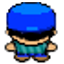
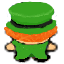
new main character

diff --git a/LudumDare/src/net/umc/ludumdare/common/Level.java b/LudumDare/src/net/umc/ludumdare/common/Level.java
@@ -7,6 +7,7 @@ import net.umc.ludumdare.tools.ResourceManager;
 
 import org.newdawn.slick.GameContainer;
 import org.newdawn.slick.Graphics;
+import org.newdawn.slick.Image;
 import org.newdawn.slick.state.StateBasedGame;
 import org.newdawn.slick.tiled.TiledMap;
 
@@ -39,7 +40,7 @@ public class Level {
 	public void init(){
 		//load resources
 		levelMap = ResourceManager.getMap(mapID);
-		mainChar = new Sprite(ResourceManager.getImage(charID));
+		mainChar = new Sprite(new Image[] {ResourceManager.getImage("GUY"), ResourceManager.getImage("GUY2"), ResourceManager.getImage("GUY"), ResourceManager.getImage("GUY3")});
 		mainChar.setX(192);
 		mainChar.setY(levelMap.getHeight() * levelMap.getTileHeight() - 64);
 		mainChar.setVelY(-5f);
